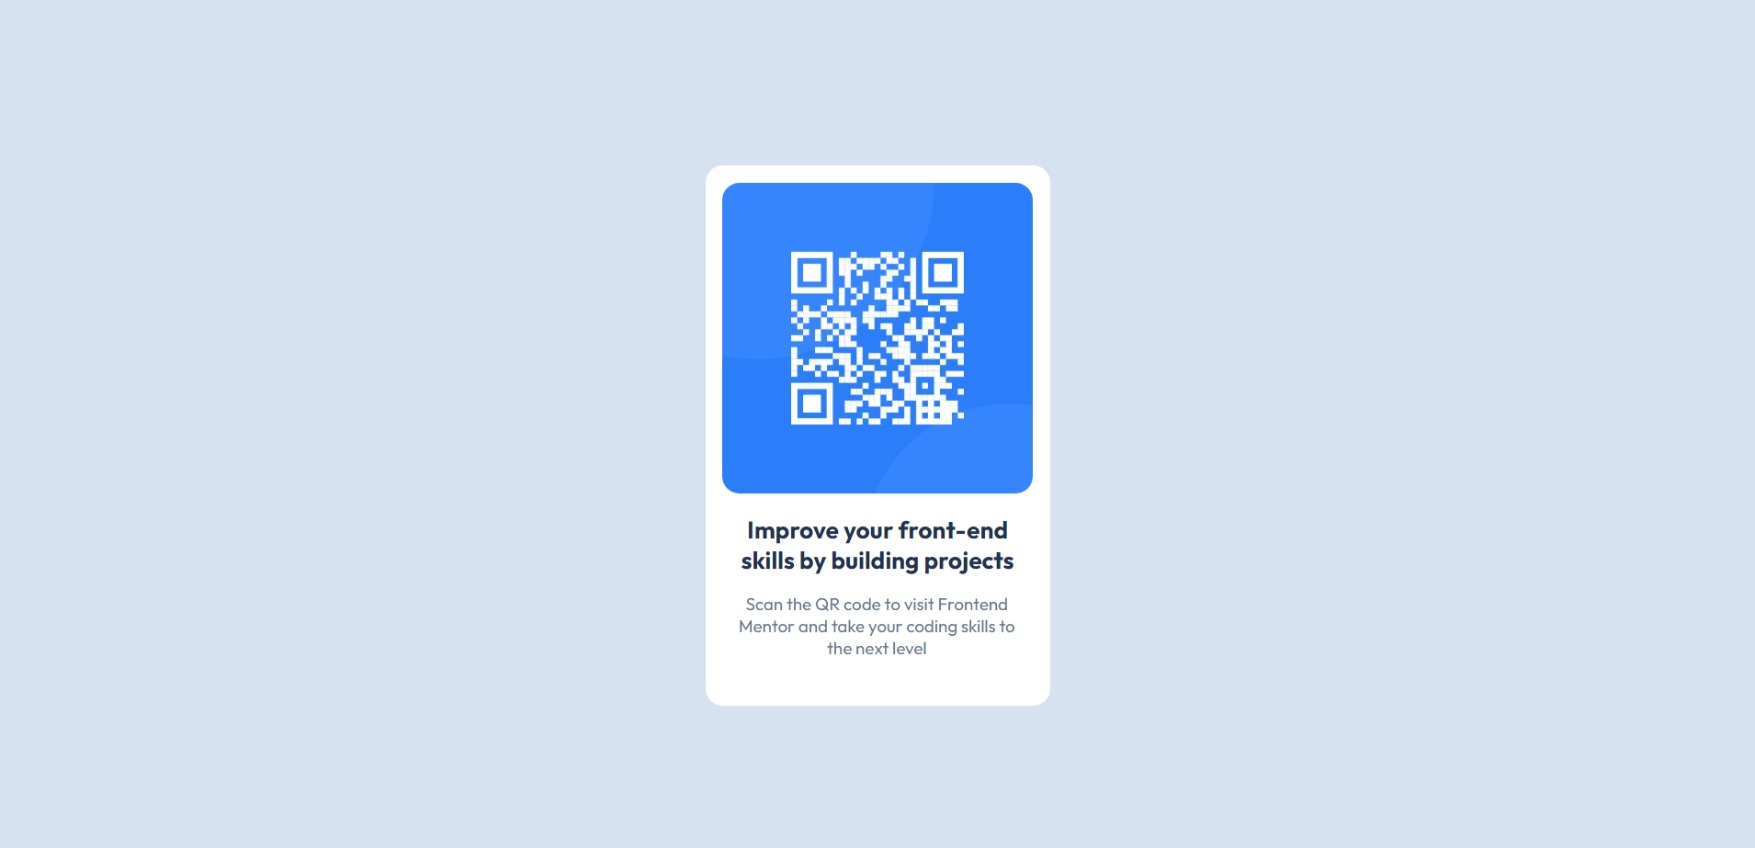
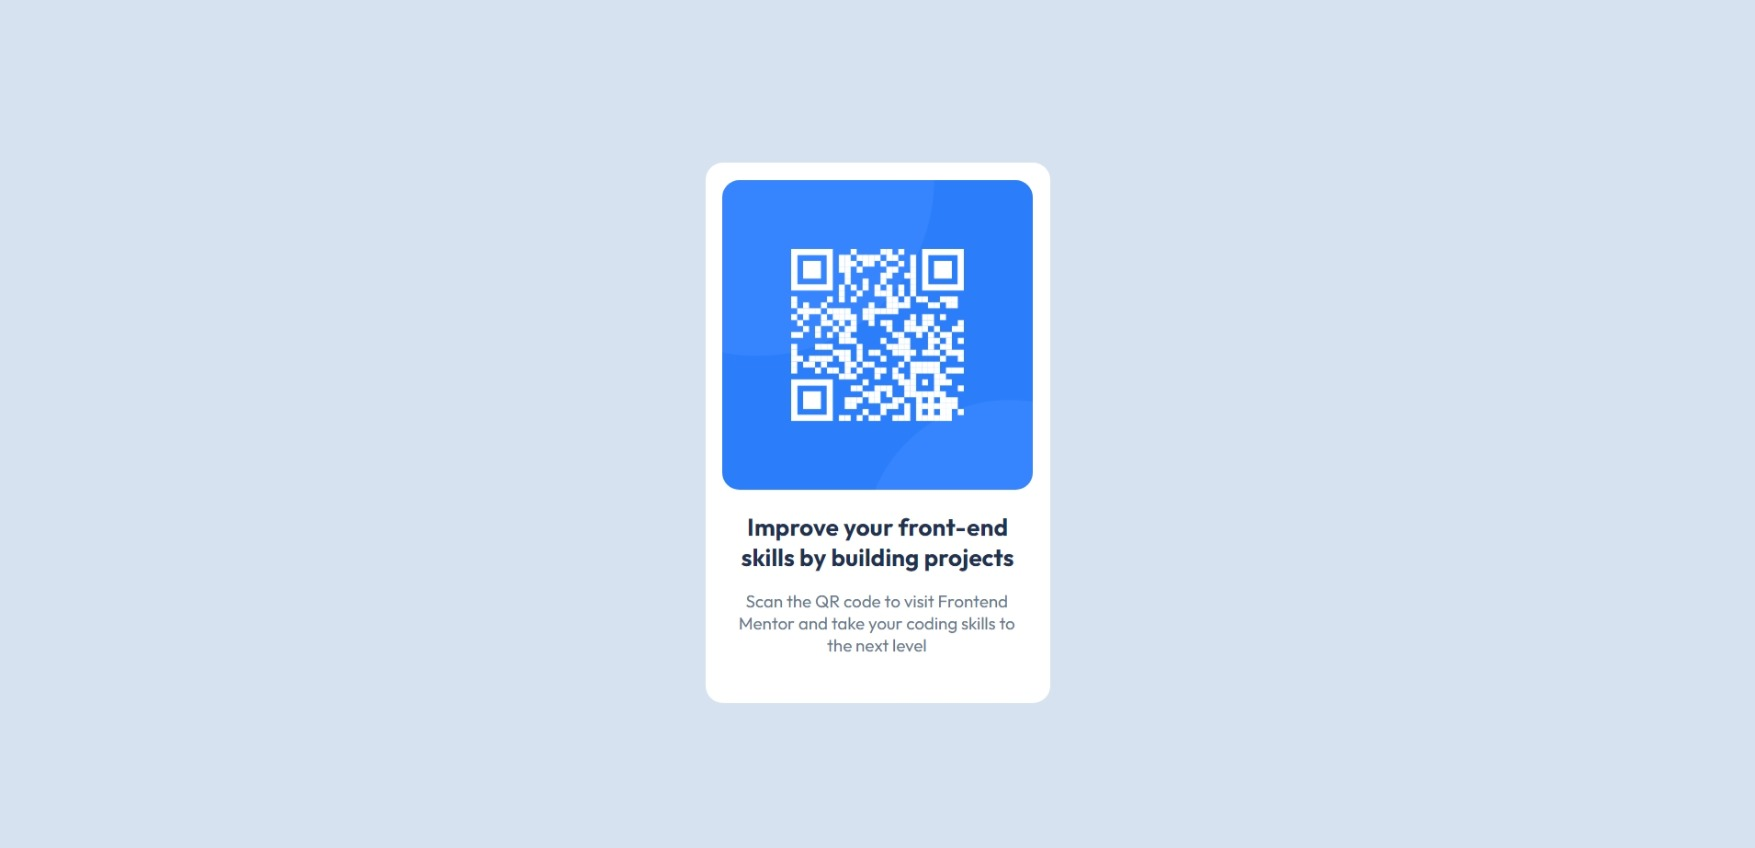
x

diff --git a/style.css b/style.css
@@ -15,7 +15,7 @@ min-height: 100vh;
     width: 300px;
     background-color: white;
     border-radius: 15px;
-    margin-top: 20px;
+    margin-top: 15px;
 }
 img{    
     border-radius: 15px;
